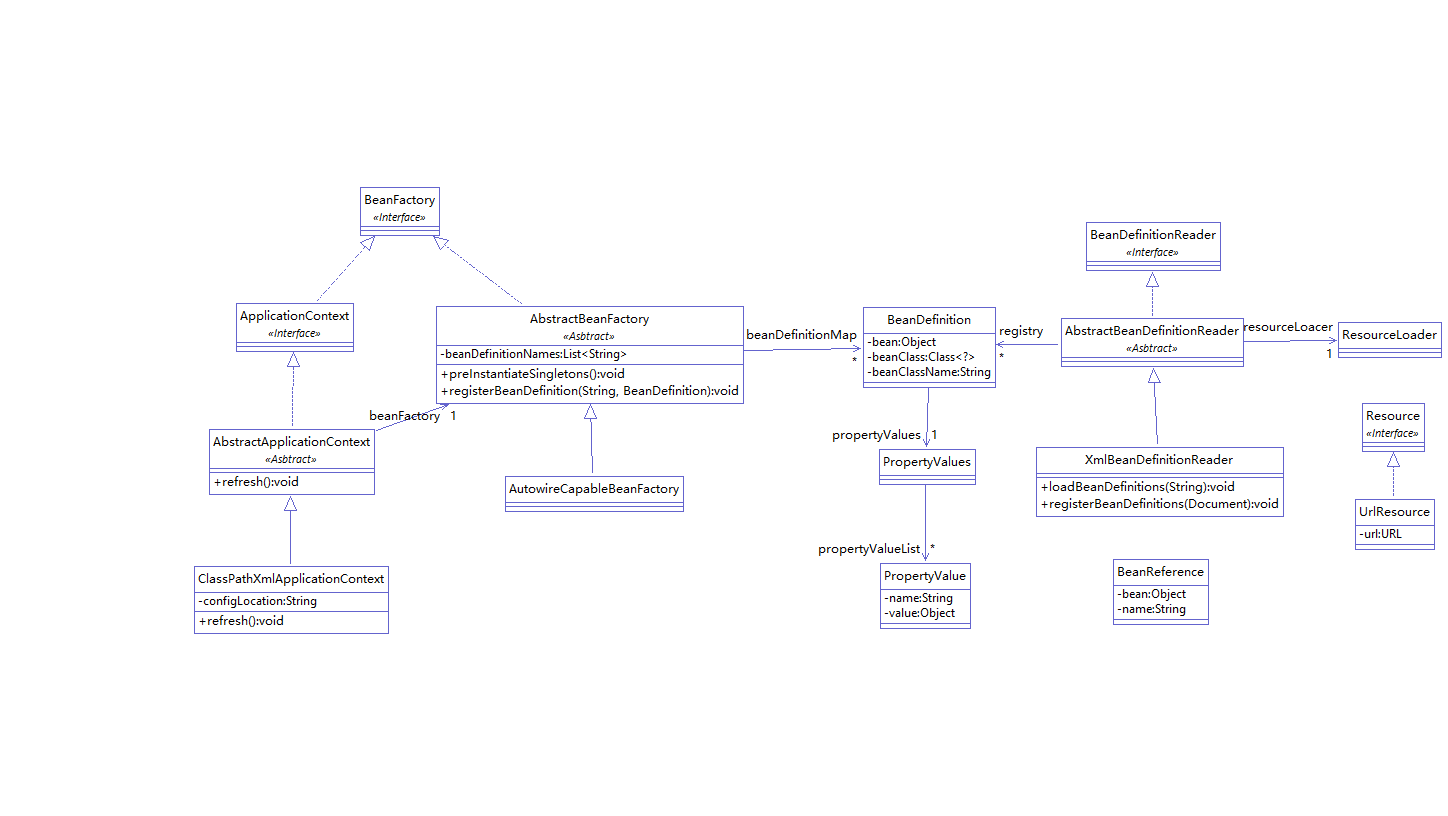
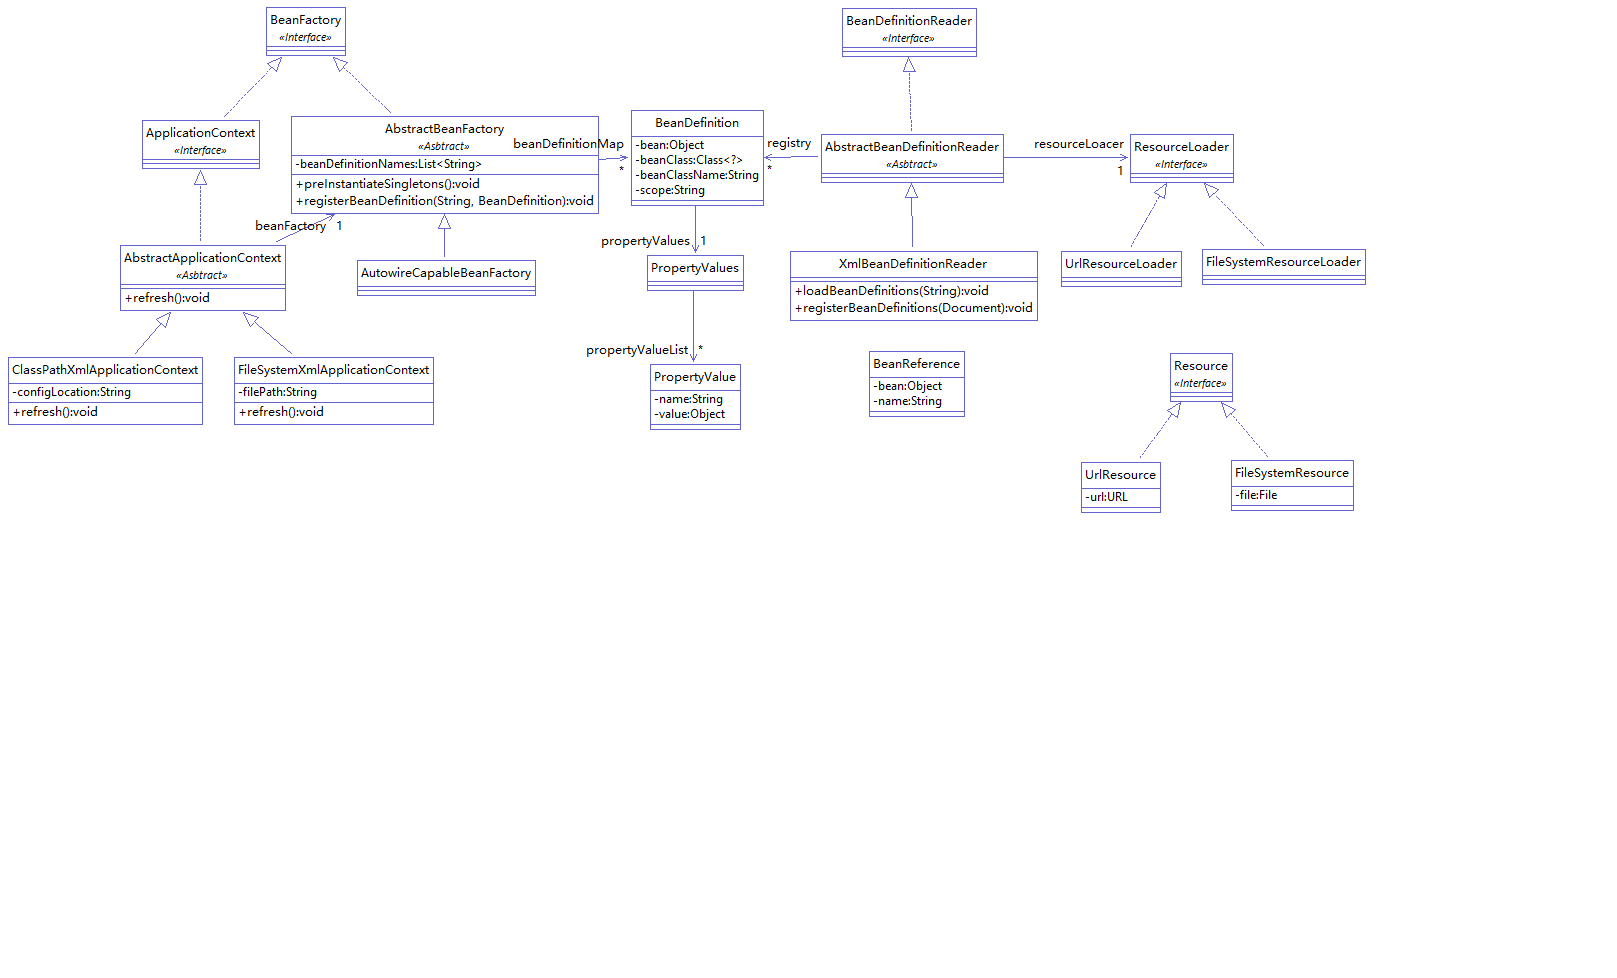
添加了FileSystemXmlApplicationContext,方便调用

diff --git a/src/main/java/com/cn/ioc/context/FileSystemXmlApplicationContext.java b/src/main/java/com/cn/ioc/context/FileSystemXmlApplicationContext.java
@@ -1,0 +1,32 @@
+package com.cn.ioc.context;
+
+import java.io.File;
+import java.util.Map;
+
+import com.cn.ioc.beans.BeanDefinition;
+import com.cn.ioc.factory.AbstractBeanFactory;
+import com.cn.ioc.factory.AutowireCapableBeanFactory;
+import com.cn.ioc.io.FileSystemResourceLoader;
+import com.cn.ioc.xml.XmlBeanDefinitionReader;
+
+public class FileSystemXmlApplicationContext extends AbstractApplicationContext{
+	private String filePath;
+
+	public FileSystemXmlApplicationContext(String filePath) throws Exception {
+		this(filePath, new AutowireCapableBeanFactory());
+	}
+	
+	public FileSystemXmlApplicationContext(String filePath, AbstractBeanFactory beanFactory) throws Exception{
+		super(beanFactory);
+		this.filePath = filePath;
+		refresh();
+	}
+	
+	public void refresh() throws Exception{
+		XmlBeanDefinitionReader xbdr = new XmlBeanDefinitionReader(new FileSystemResourceLoader());
+		xbdr.loadBeanDefinitions(filePath);
+		for(Map.Entry<String, BeanDefinition> bdr : xbdr.getRegistry().entrySet()) {
+			beanFactory.registerBeanDefinition(bdr.getKey(), bdr.getValue());
+		}
+	}
+}

diff --git a/src/test/java/com/cn/ioc/xml/XmlBeanDefinitionReaderTest.java b/src/test/java/com/cn/ioc/xml/XmlBeanDefinitionReaderTest.java
@@ -5,16 +5,26 @@ import java.util.Map;
 import org.junit.Test;
 
 import com.cn.ioc.beans.BeanDefinition;
+import com.cn.ioc.io.FileSystemResourceLoader;
 import com.cn.ioc.io.ResourceLoader;
+import com.cn.ioc.io.UrlResourceLoader;
 
 import junit.framework.Assert;
 
 public class XmlBeanDefinitionReaderTest {
 	
 	@Test
-	public void test() throws Exception{
-		XmlBeanDefinitionReader xbdr = new XmlBeanDefinitionReader(new ResourceLoader());
+	public void testUrl() throws Exception{
+		XmlBeanDefinitionReader xbdr = new XmlBeanDefinitionReader(new UrlResourceLoader());
 		xbdr.loadBeanDefinitions("spring.xml");
+		Map<String, BeanDefinition> registry = xbdr.getRegistry();
+		Assert.assertTrue(registry.size() > 0);
+	}
+	
+	@Test
+	public void testFileSystem() throws Exception{
+		XmlBeanDefinitionReader xbdr = new XmlBeanDefinitionReader(new FileSystemResourceLoader());
+		xbdr.loadBeanDefinitions("F:\\mavenProject\\MySpring\\Test\\spring.xml");
 		Map<String, BeanDefinition> registry = xbdr.getRegistry();
 		Assert.assertTrue(registry.size() > 0);
 	}

diff --git a/src/test/java/com/cin/ioc/io/ResourceLoaderTest.java b/src/test/java/com/cin/ioc/io/ResourceLoaderTest.java
@@ -5,17 +5,27 @@ import java.io.InputStream;
 
 import org.junit.Test;
 
+import com.cn.ioc.io.FileSystemResourceLoader;
 import com.cn.ioc.io.Resource;
 import com.cn.ioc.io.ResourceLoader;
+import com.cn.ioc.io.UrlResourceLoader;
 
 import junit.framework.Assert;
 
 public class ResourceLoaderTest {
 
 	@Test
-	public void test() throws IOException{
-		ResourceLoader resourceLoader = new ResourceLoader();
+	public void testURL() throws IOException{
+		ResourceLoader resourceLoader = new UrlResourceLoader();
 		Resource resource = resourceLoader.getResource("spring.xml");
+		InputStream inputStream = resource.getInputStream();
+		Assert.assertNotNull(inputStream);
+	}
+	
+	@Test
+	public void testFileSystem() throws IOException{
+		ResourceLoader resourceLoader = new FileSystemResourceLoader();
+		Resource resource = resourceLoader.getResource("F:\\mavenProject\\MySpring\\Test\\spring.xml");
 		InputStream inputStream = resource.getInputStream();
 		Assert.assertNotNull(inputStream);
 	}

diff --git a/src/main/java/com/cn/ioc/context/ClassPathXmlApplicationContext.java b/src/main/java/com/cn/ioc/context/ClassPathXmlApplicationContext.java
@@ -5,7 +5,7 @@ import java.util.Map;
 import com.cn.ioc.beans.BeanDefinition;
 import com.cn.ioc.factory.AbstractBeanFactory;
 import com.cn.ioc.factory.AutowireCapableBeanFactory;
-import com.cn.ioc.io.ResourceLoader;
+import com.cn.ioc.io.UrlResourceLoader;
 import com.cn.ioc.xml.XmlBeanDefinitionReader;
 
 public class ClassPathXmlApplicationContext extends AbstractApplicationContext{
@@ -23,7 +23,7 @@ public class ClassPathXmlApplicationContext extends AbstractApplicationContext{
 	}
 	
 	public void refresh() throws Exception{
-		XmlBeanDefinitionReader xbdr = new XmlBeanDefinitionReader(new ResourceLoader());
+		XmlBeanDefinitionReader xbdr = new XmlBeanDefinitionReader(new UrlResourceLoader());
 		xbdr.loadBeanDefinitions(configLocation);
 		for(Map.Entry<String, BeanDefinition> bdr : xbdr.getRegistry().entrySet()) {
 			beanFactory.registerBeanDefinition(bdr.getKey(), bdr.getValue());

diff --git a/src/test/java/com/cn/ioc/context/FileSystemXmlApplicationContextTest.java b/src/test/java/com/cn/ioc/context/FileSystemXmlApplicationContextTest.java
@@ -1,0 +1,26 @@
+package com.cn.ioc.context;
+
+import org.junit.Test;
+
+import com.cn.ioc.factory.TestService;
+
+public class FileSystemXmlApplicationContextTest {
+
+	@Test
+	public void test(){
+		try {
+			FileSystemXmlApplicationContext cpac = new FileSystemXmlApplicationContext("F:\\mavenProject\\MySpring\\Test\\spring.xml");
+			TestService testService = (TestService) cpac.getBean("testService");
+			testService.setName("Tom");
+			testService.sayHello();
+			
+			TestService testService2 = (TestService) cpac.getBean("testService");
+			testService2.sayHello();
+			
+			System.out.println(testService == testService2);
+			
+		} catch (Exception e) {
+			e.printStackTrace();
+		}
+	}
+}

diff --git a/src/test/java/com/cn/ioc/factory/BeanFactoryTest.java b/src/test/java/com/cn/ioc/factory/BeanFactoryTest.java
@@ -6,13 +6,14 @@ import org.junit.Test;
 
 import com.cn.ioc.beans.BeanDefinition;
 import com.cn.ioc.io.ResourceLoader;
+import com.cn.ioc.io.UrlResourceLoader;
 import com.cn.ioc.xml.XmlBeanDefinitionReader;
 
 public class BeanFactoryTest {
 	@Test
 	public void TestBeanFactory() throws Exception {
 		// 1.读取配置
-		XmlBeanDefinitionReader xmlBeanDefinitionReader = new XmlBeanDefinitionReader(new ResourceLoader());
+		XmlBeanDefinitionReader xmlBeanDefinitionReader = new XmlBeanDefinitionReader(new UrlResourceLoader());
 		xmlBeanDefinitionReader.loadBeanDefinitions("spring.xml");
 
 		// 2.初始化BeanFactory并注册bean

diff --git a/src/main/java/com/cn/ioc/io/ResourceLoader.java b/src/main/java/com/cn/ioc/io/ResourceLoader.java
@@ -1,16 +1,10 @@
 package com.cn.ioc.io;
 
-import java.net.URL;
-
 /**
  * 查找具有给定名称的资源,在这里就是查找指定的spring配置文件
  * @author lvbiao
  *
  */
-public class ResourceLoader {
-	public Resource getResource(String location){
-		URL resource = this.getClass().getClassLoader().getResource(location);
-		return new UrlResource(resource);
-	}
-
+public interface ResourceLoader {
+	public Resource getResource(String location);
 }

diff --git a/src/main/java/com/cn/ioc/io/FileSystemResource.java b/src/main/java/com/cn/ioc/io/FileSystemResource.java
@@ -1,0 +1,19 @@
+package com.cn.ioc.io;
+
+import java.io.File;
+import java.io.FileInputStream;
+import java.io.IOException;
+import java.io.InputStream;
+
+public class FileSystemResource implements Resource{
+	private final File file;
+
+	public FileSystemResource(File file){
+		this.file = file;
+	}
+
+	public InputStream getInputStream() throws IOException {
+		FileInputStream fileInputStream = new FileInputStream(file);
+		return fileInputStream;
+	}
+}

diff --git a/src/main/java/com/cn/ioc/io/UrlResourceLoader.java b/src/main/java/com/cn/ioc/io/UrlResourceLoader.java
@@ -1,0 +1,11 @@
+package com.cn.ioc.io;
+
+import java.net.URL;
+
+//RUL类型
+public class UrlResourceLoader implements ResourceLoader{
+	public Resource getResource(String location){
+		URL resource = this.getClass().getClassLoader().getResource(location);
+		return new UrlResource(resource);
+	}
+}

diff --git a/src/main/java/com/cn/ioc/io/FileSystemResourceLoader.java b/src/main/java/com/cn/ioc/io/FileSystemResourceLoader.java
@@ -1,0 +1,9 @@
+package com.cn.ioc.io;
+
+import java.io.File;
+
+public class FileSystemResourceLoader implements ResourceLoader{
+	public Resource getResource(String filePath){
+		return new FileSystemResource(new File(filePath));
+	}
+}
